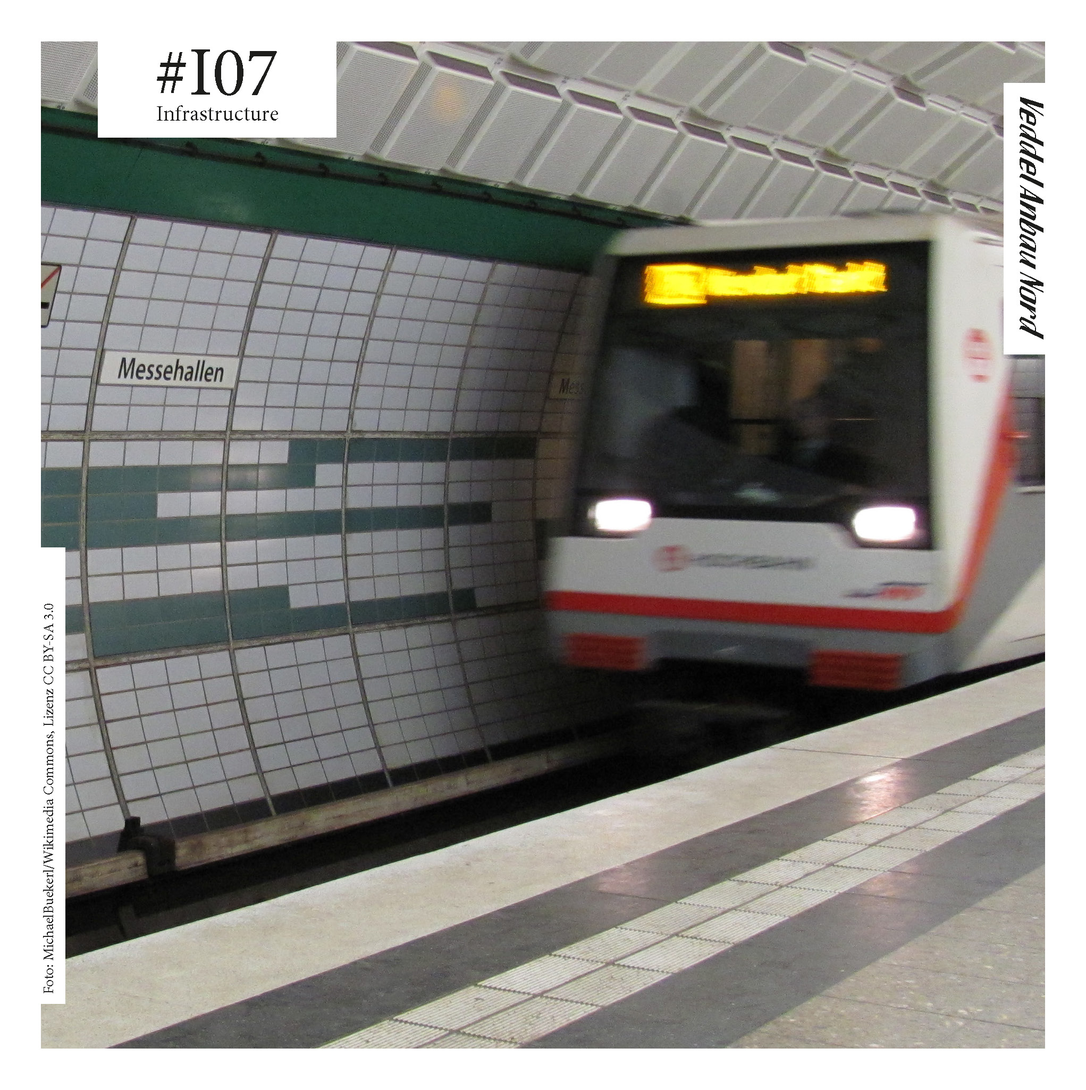
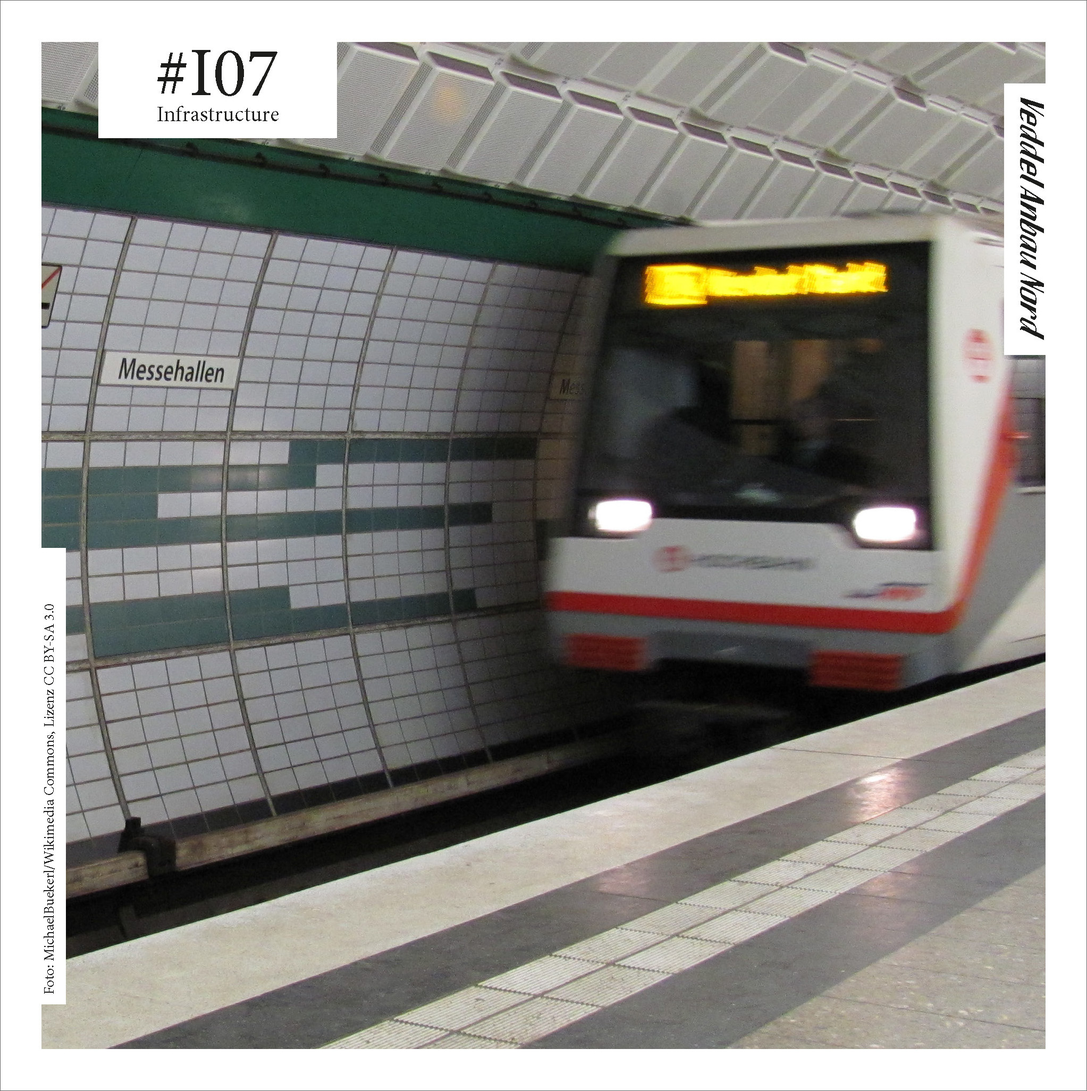
update/improve description. frames around images

diff --git a/README.md b/README.md
@@ -1,14 +1,20 @@
-# Hier plant die Veddel! 
+# Hier plant die Veddel!
 
-## Auswertung 9 aus 69 (INSTAPLAN)
+## Bildkerkatalog 9 aus 69 (INSTAPLAN)
 
-[Auswertung der Befragung zum Veddeler Norden (mit 9aus69/Instaplan) am 1.9.2018 inklusive Rohdaten](https://github.com/veddel-anbau-nord/9aus69-auswertung/blob/master/batch01/README.md) (Batch01)
+Im Rahmen von [Veddel Anbau Nord](https://www.veddel-anbau-nord.de) haben wir im Sommer 2018 einen Bilderkatalog aus 69 Bildtafeln, entwickelt. Die Bildtafeln sind in acht Kategorien geordnet. Der Katalog bietet eine einfache Möglichkeit der Wunschproduktion von Anwohner\*innen für ein neu zu bebauendes Gebiet. Mit ihm können Präferenzen für künftige Nutzungsformen (von Wohnen über Geschäfte und Kultureinrichtungen bis zu kommunale Infrastrukturen) formuliert werden. Durch die Verwendung von Bildern ist eine spielerische und sprachübergreifende Beteiligung möglich.
+
+Aus dem Bilderkatalog aus 69 Elementen können Bewohner\*innen und anderen Interessierten neun Elemente auswählen. Gleichzeitig wurden die Teilnehmer\*innen gebeten, ihre Wünsche kurz zu kommentieren und zusammenzufassen.
+
+Eine erste Befragung mit diesem Katalog fand am [1.9.2018](https://github.com/veddel-anbau-nord/9aus69-auswertung/blob/master/batch01/README.md) statt, um die Bewohner\*innen des Hamburger Stadtteils Veddel über ihre Vorstellung der Neubebauung des Veddeler Nordens zu befragen. Bildkatalog und Befragung sind hier dokumentiert.
+
+[Auswertung der Befragung zum Veddeler Norden (mit 9aus69/Instaplan) am 1.9.2018 inklusive Rohdaten](https://github.com/veddel-anbau-nord/9aus69-auswertung/blob/master/batch01/README.md)
 
 ![Foto von der Befragung am 1.9](https://github.com/veddel-anbau-nord/9aus69-auswertung/blob/master/batch01/making_of_003.jpg?raw=true)
 
-Die Idee dieses Repositories ist es, die Ergebnisse einer Befragung transparent und weiterverarbeitbar zu machen. Unzählige Befragungen im Rahmen von Beteiligungsverfahren zu Stadtentwicklungsprojekten verschwinden in Schubladen oder ihre Ergebnisse finden sich nur als gefiltertes und interpretiertes Resumée in "Ideendokumenten" wieder. 
+Die Idee dieses Repositories ist es, die Ergebnisse einer Befragung transparent und weiterverarbeitbar zu machen. Unzählige Befragungen im Rahmen von Beteiligungsverfahren zu Stadtentwicklungsprojekten verschwinden in Schubladen oder ihre Ergebnisse finden sich nur als gefiltertes und interpretiertes Resumée in "Ideendokumenten" wieder.
 
-Dieses Projekt versteht sich als Vorschlag, die bei Befragungen gesammlten Feedbacks und Stellungnahmen von Bewohner\*innen öffentlich zugänglich zu dokumentieren und die Auswertung offenzulegen. Wir haben dazu einen Bilderkatalog aus 69 Elementen entwickelt, der Bewohner\*innen und anderen Interessierten zur Auswahl von 9 Elementen vorgelegt wurde. Gleichzeitige wurde die Teilnehmer\*innen gebeten, ihre Wünsche kurz zu kommentieren und zusammenzufassen. Eine erste Befragung mit diesem Katalog fand am [1.9.2018](https://github.com/veddel-anbau-nord/9aus69-auswertung/blob/master/batch01/README.md) statt.
+Dieses Projekt versteht sich als Vorschlag, die bei Befragungen gesammlten Feedbacks und Stellungnahmen von Bewohner\*innen öffentlich zugänglich zu dokumentieren und die Auswertung offenzulegen.
 
 Weitere Informationen zur Befragung und seinem Kontext in Hamburg Veddel im [Wiki des Projekts Veddel Anbau Nord](https://wiki.veddel-anbau-nord.de/doku.php?id=ergebnisse)
 

diff --git a/batch01/README.md b/batch01/README.md
@@ -1,4 +1,4 @@
-# Hier plant die Veddel! 
+# Hier plant die Veddel!
 
 ## Befragung am 1.9.2018 beim Straßenfest 250 Jahre Veddel
 
@@ -6,11 +6,11 @@
 
 Anzahl der Befragten: 33
 
-Davon 20 Bewohner\*innen, 5 Menschen die auf der Veddel arbeiten, 8 Personen, die außerhalb der Veddel wohnen und arbeiten.
+Davon 20 Bewohner\*innen der Veddel, 5 Menschen die auf der Veddel arbeiten und 8 Personen, die außerhalb der Veddel wohnen und arbeiten.
 
-Für die Auswertung wurden Beiträge von Bewohner*innen der Veddel mit dem Faktor 3, von Menschen, die auf der Veddel arbeiten mit Faktor 2 gewichtet.
+Für die Auswertung wurden Beiträge von Bewohner*innen der Veddel mit dem Faktor 3, von Menschen, die auf der Veddel arbeiten mit Faktor 2 gewichtet. Stimmen der Bewohner*innen wurden dadurch deutlich stärker berücksichtigt, als die von Besucher*innen des Straßenfestes aus anderen Stadtteilen.
 
-Summe, gewichtet nach den Bildgruppen
+### Am meisten ausgewählte Bildgruppen (Summe, gewichtet)
 
 * B Business/Geschäfte 26%
 * L Leisure/Freizeit 22%
@@ -21,15 +21,19 @@ Summe, gewichtet nach den Bildgruppen
 * S Spritual/Religiöses 3,9%
 * X eigene Ergänzungen 1,9%
 
-Favoriten, gewichtet 
+### Favoriten
 
-* B08 ![B08](https://github.com/veddel-anbau-nord/9aus69-auswertung/blob/master/batch01/tops/veddel-anbau-nord-katalog-ok_B08.jpg)
-* B07 ![B07](https://github.com/veddel-anbau-nord/9aus69-auswertung/blob/master/batch01/tops/veddel-anbau-nord-katalog-ok_B07.jpg)
-* B05 ![B05](https://github.com/veddel-anbau-nord/9aus69-auswertung/blob/master/batch01/tops/veddel-anbau-nord-katalog-ok_B05.jpg)
-* L04 ![L04](https://github.com/veddel-anbau-nord/9aus69-auswertung/blob/master/batch01/tops/veddel-anbau-nord-katalog-ok_L04.jpg)
-* I09 ![I09](https://github.com/veddel-anbau-nord/9aus69-auswertung/blob/master/batch01/tops/veddel-anbau-nord-katalog-ok_I09.jpg)
+Am häufigsten ausgewählte Bildtafeln (Summe, gewichtet):
 
-Flops (Karten, die kein einiziges Mal ausgewählt wurden)
+1. B08 ![B08](https://github.com/veddel-anbau-nord/9aus69-auswertung/blob/master/batch01/tops/veddel-anbau-nord-katalog-ok_B08.jpg)
+2. B07 ![B07](https://github.com/veddel-anbau-nord/9aus69-auswertung/blob/master/batch01/tops/veddel-anbau-nord-katalog-ok_B07.jpg)
+3. B05 ![B05](https://github.com/veddel-anbau-nord/9aus69-auswertung/blob/master/batch01/tops/veddel-anbau-nord-katalog-ok_B05.jpg)
+4. L04 ![L04](https://github.com/veddel-anbau-nord/9aus69-auswertung/blob/master/batch01/tops/veddel-anbau-nord-katalog-ok_L04.jpg)
+5. I09 ![I09](https://github.com/veddel-anbau-nord/9aus69-auswertung/blob/master/batch01/tops/veddel-anbau-nord-katalog-ok_I09.jpg)
+
+### Flops
+
+Bildtafeln, die kein einziges Mal ausgewählt wurden:
 
 * B16 ![B16](https://github.com/veddel-anbau-nord/9aus69-auswertung/blob/master/batch01/flops/veddel-anbau-nord-katalog-ok_B16.jpg)
 * I07 ![I07](https://github.com/veddel-anbau-nord/9aus69-auswertung/blob/master/batch01/flops/veddel-anbau-nord-katalog-ok_I07.jpg)
